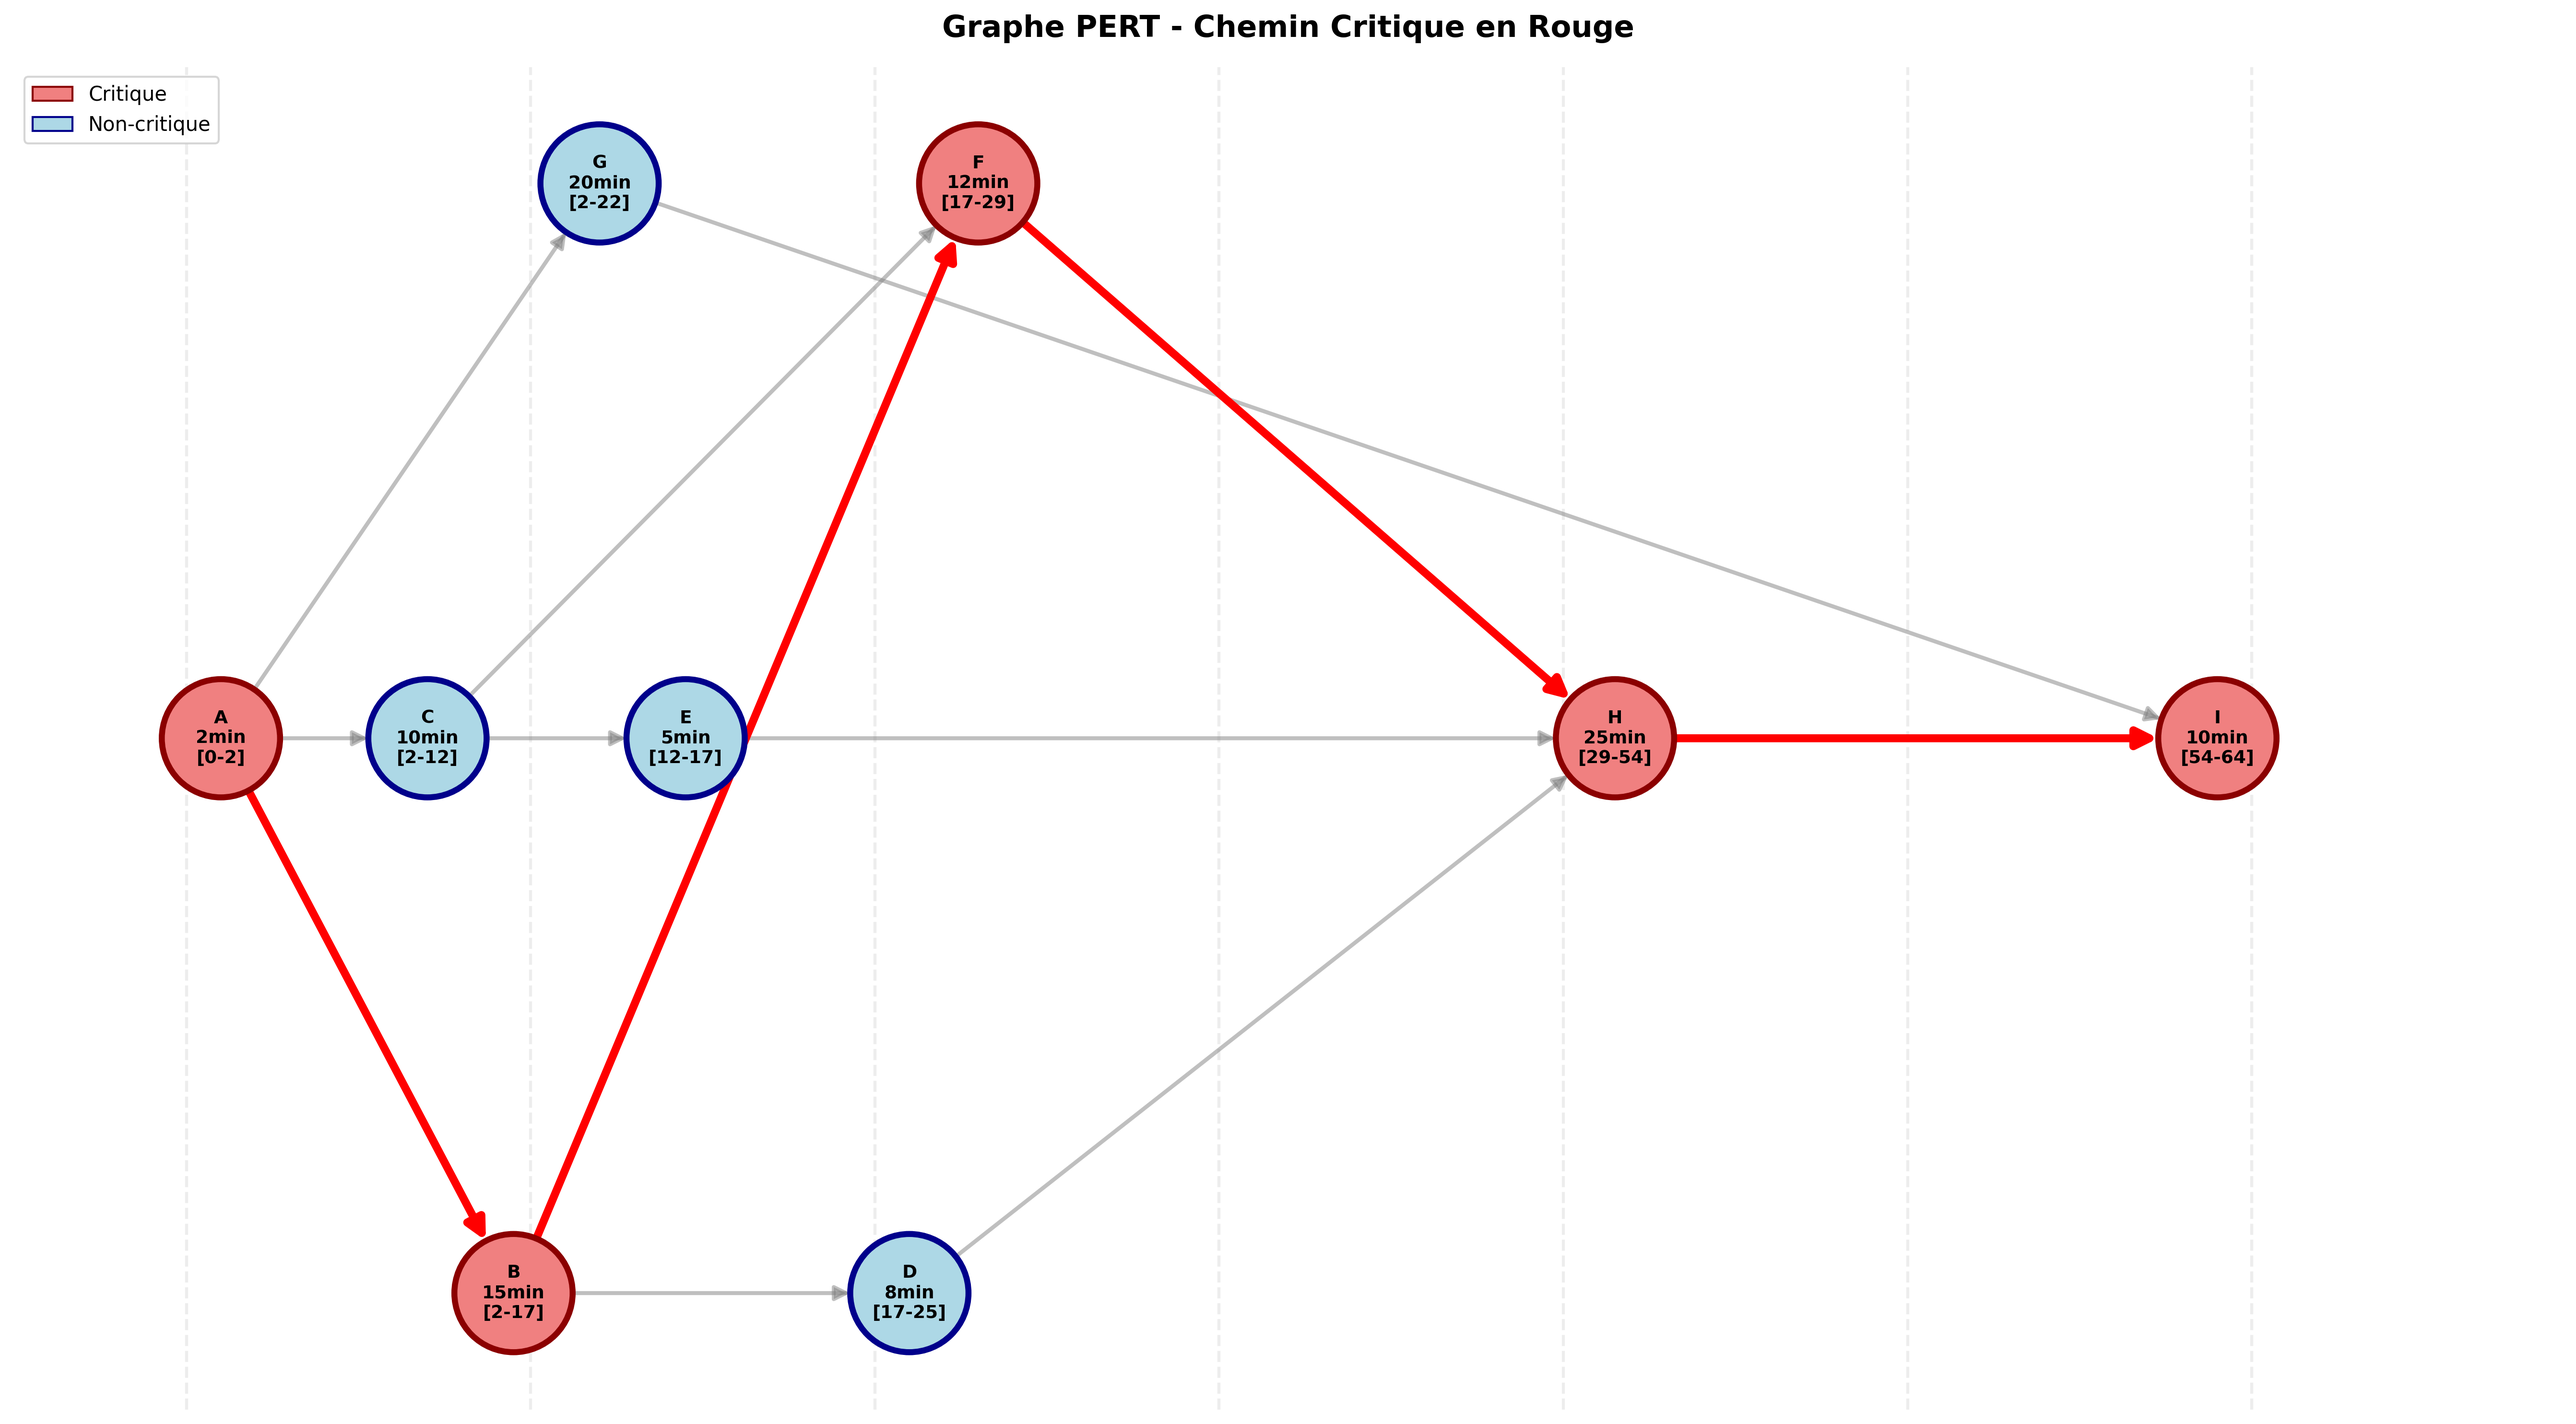
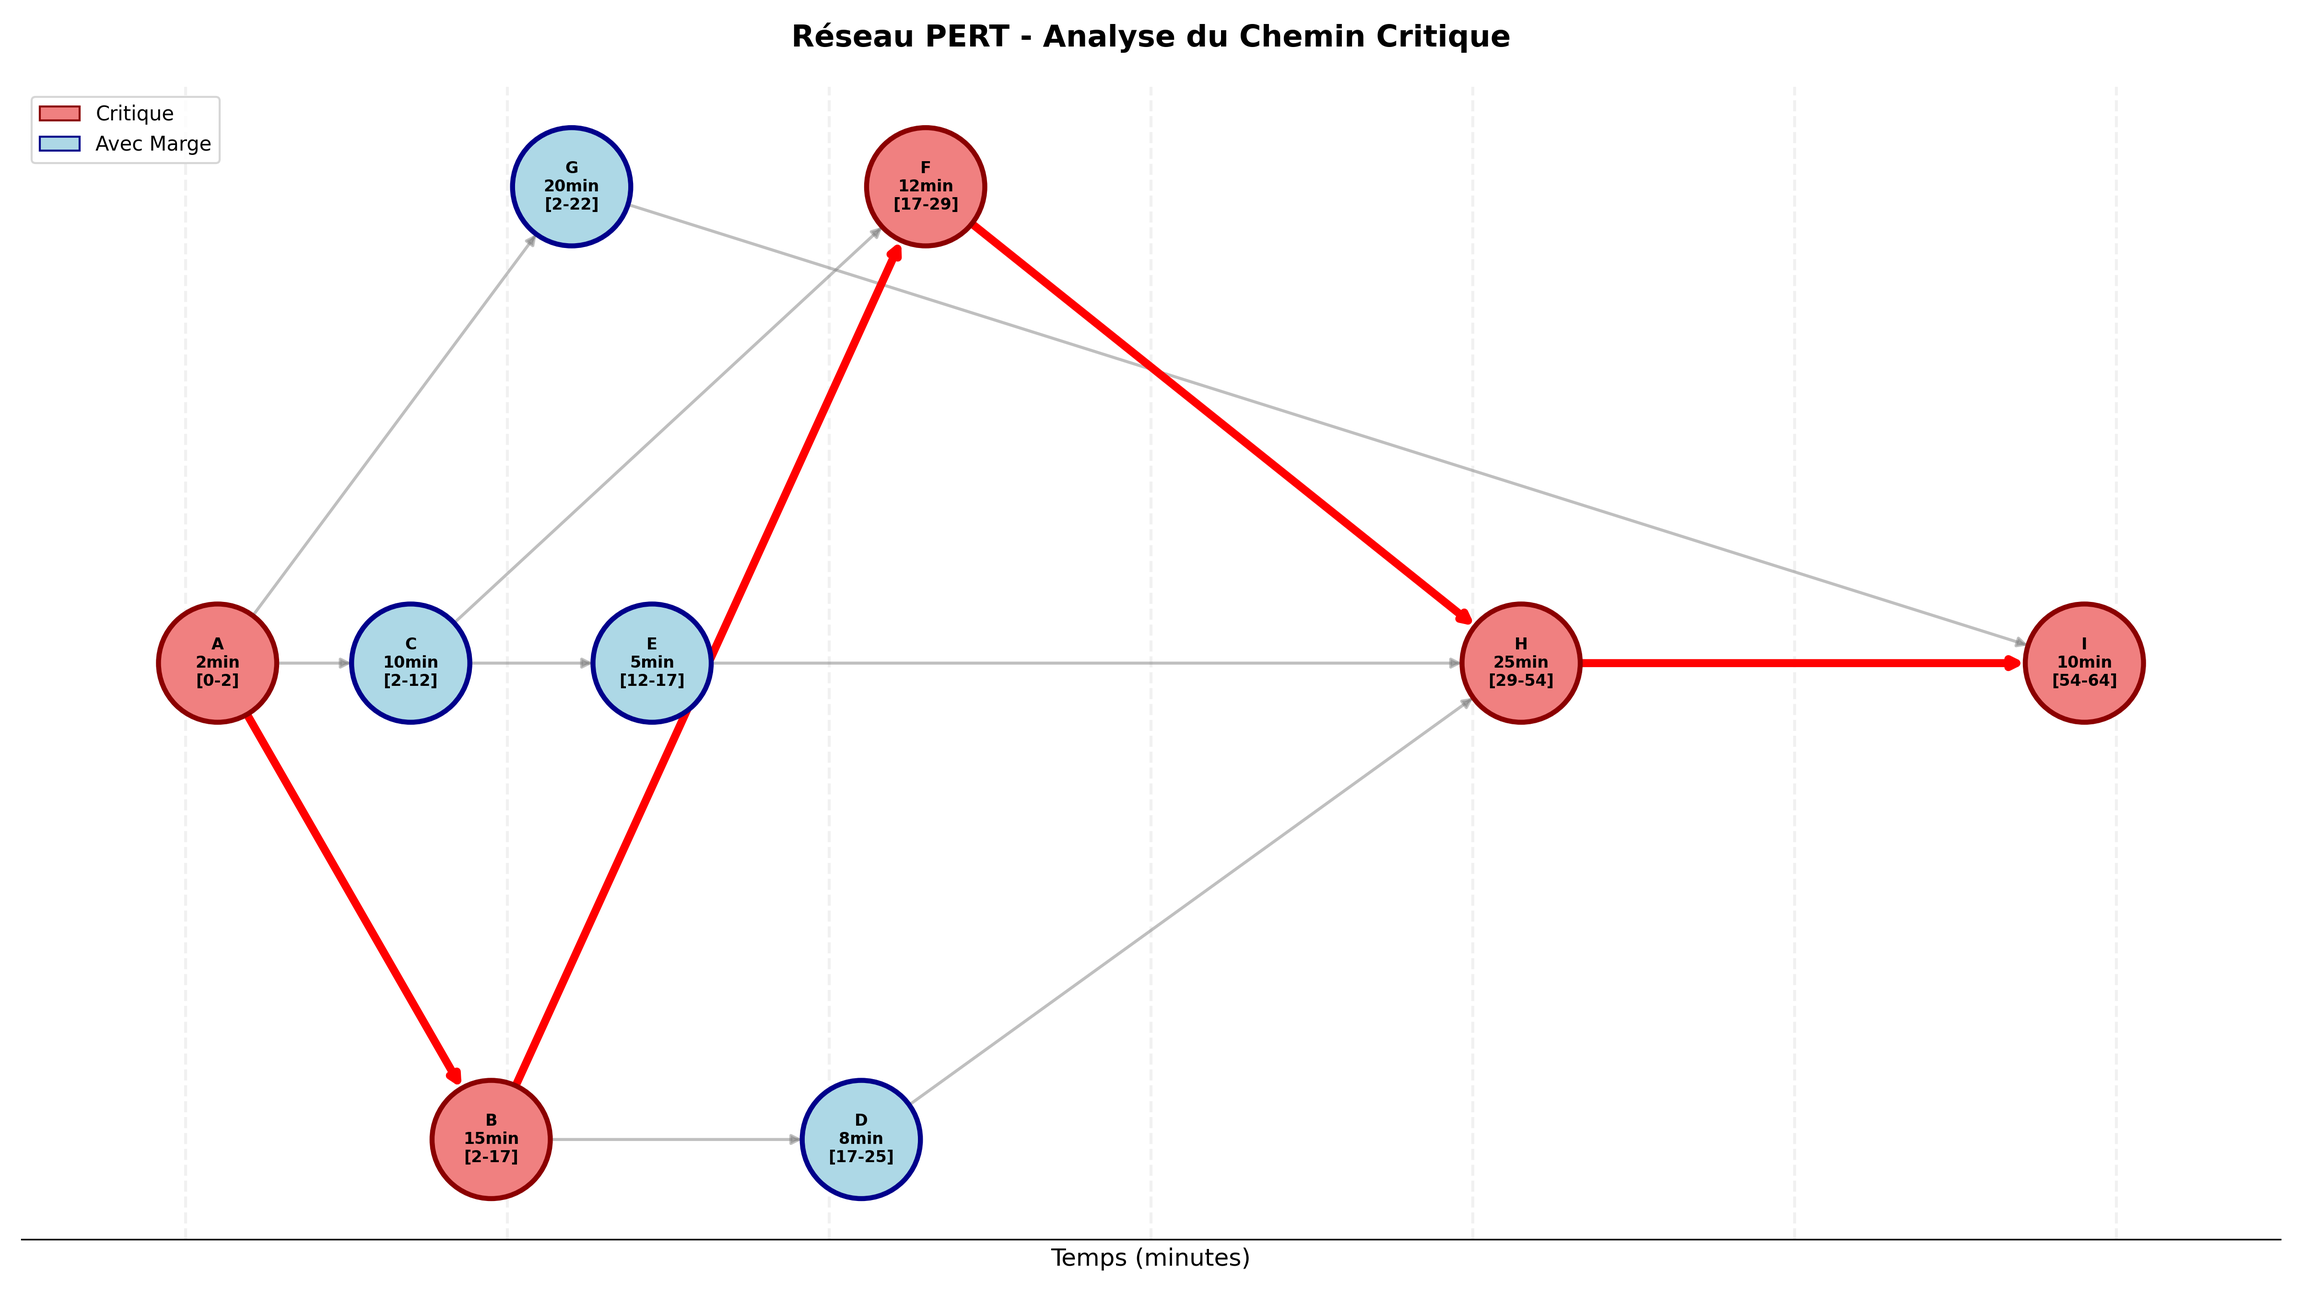
ajout de classe de visualisation

diff --git a/src/visualisation.py b/src/visualisation.py
@@ -1,0 +1,142 @@
+import matplotlib.pyplot as plt
+import networkx as nx
+from matplotlib.patches import Patch
+
+
+from graph_builder import GraphePERT
+from pert_calculator import CalculateurPERT
+
+class VisualisateurPERT:
+    def __init__(self, calculateur):
+        self.calc = calculateur
+        self.graphe = calculateur.graphe
+        self.gp = calculateur.graphe_pert
+
+    def _calculer_positions(self):
+        """Calcule les positions hierarchiques basees sur le temps"""
+        # Calculer niveaux
+        niveaux = {}
+        for node in nx.topological_sort(self.graphe):
+            preds = list(self.graphe.predecessors(node))
+            niveaux[node] = max([niveaux[p] for p in preds], default=-1) + 1
+
+        # Grouper par niveau
+        noeuds_par_niveau = {}
+        for node, niveau in niveaux.items():
+            noeuds_par_niveau.setdefault(niveau, []).append(node)
+
+        # Positionner
+        resultats = self.calc.executer_analyse_complete()
+        dates_tot = resultats["dates_tot"]
+        pos = {}
+        for niveau, noeuds in noeuds_par_niveau.items():
+            for i, node in enumerate(sorted(noeuds)):
+                x = (dates_tot[node]["ES"] + dates_tot[node]["EF"]) / 2
+                y = (i - (len(noeuds) - 1) / 2) * 2.5
+                pos[node] = (x, y)
+
+        return pos
+
+    def dessiner_pert(self, fichier_sortie="./rapport/figures/graphe_pert.png"):
+        """Génère le graphe PERT circulaire avec chemin critique et labels [ES-EF]."""
+        fig, ax = plt.subplots(figsize=(16, 9))
+        chemin = self.calc.chemin_critique
+        dates_tot = self.calc.dates_tot
+        pos = self._calculer_positions()
+
+        # Dessin des Arcs
+        arcs_critiques = [(chemin[i], chemin[i + 1]) for i in range(len(chemin) - 1)]
+        nx.draw_networkx_edges(self.graphe, pos, edgelist=[e for e in self.graphe.edges() if e not in arcs_critiques],
+                               edge_color="gray", width=1.5, alpha=0.5, ax=ax, node_size=3500)
+        nx.draw_networkx_edges(self.graphe, pos, edgelist=arcs_critiques,
+                               edge_color="red", width=4, ax=ax, node_size=3500)
+
+        # Dessin des Noeuds
+        couleurs = ["lightcoral" if n in chemin else "lightblue" for n in self.graphe.nodes()]
+        bordures = ["darkred" if n in chemin else "darkblue" for n in self.graphe.nodes()]
+        nx.draw_networkx_nodes(self.graphe, pos, node_color=couleurs, edgecolors=bordures, 
+                               linewidths=2.5, node_size=3500, ax=ax)
+
+        # Labels formatés : Nom, Durée et Intervalle [ES-EF]
+        labels = {n: f"{n}\n{self.graphe.nodes[n]['duree']}min\n[{dates_tot[n]['ES']}-{dates_tot[n]['EF']}]" 
+                  for n in self.graphe.nodes()}
+        nx.draw_networkx_labels(self.graphe, pos, labels, font_size=8, font_weight="bold", ax=ax)
+
+        # Grille temporelle
+        for t in range(0, int(self.calc.duree_totale) + 1, 10):
+            ax.axvline(x=t, color="lightgray", linestyle="--", alpha=0.3, zorder=0)
+        
+        ax.set_title("Réseau PERT - Analyse du Chemin Critique", fontsize=15, fontweight="bold", pad=20)
+        ax.set_xlabel("Temps (minutes)", fontsize=12)
+        ax.spines['top'].set_visible(False)
+        ax.spines['right'].set_visible(False)
+        ax.spines['left'].set_visible(False)
+        ax.get_yaxis().set_visible(False)
+
+        # Légende
+        legende = [Patch(facecolor="lightcoral", edgecolor="darkred", label="Critique"),
+                   Patch(facecolor="lightblue", edgecolor="darkblue", label="Avec Marge")]
+        ax.legend(handles=legende, loc="upper left")
+
+        plt.tight_layout()
+        if fichier_sortie: plt.savefig(fichier_sortie, dpi=300)
+        plt.show()
+
+    def dessiner_gantt(self, fichier_sortie="./rapport/figures/graphe_gantt.png"):
+        """Génère le diagramme de Gantt avec les marges hachurées."""
+        fig, ax = plt.subplots(figsize=(14, 8))
+        taches = list(nx.topological_sort(self.graphe))
+        taches.reverse()
+        
+        for i, code in enumerate(taches):
+            es = self.calc.dates_tot[code]['ES']
+            ef = self.calc.dates_tot[code]['EF']
+            marge = self.calc.marges[code]
+            est_critique = (marge == 0)
+
+            # Barre de la tâche
+            ax.barh(i, self.graphe.nodes[code]['duree'], left=es, 
+                    color="lightcoral" if est_critique else "lightblue", 
+                    edgecolor="darkred" if est_critique else "darkblue", linewidth=1.2)
+
+            # Barre de la marge
+            if marge > 0:
+                ax.barh(i, marge, left=ef, color='white', edgecolor='gray', hatch='///', alpha=0.4)
+                ax.text(ef + marge + 0.5, i, f"marge: {marge}m", va='center', fontsize=9, color='gray')
+
+            ax.text(es - 0.5, i, f"{code} ", va='center', ha='right', fontweight='bold')
+
+        ax.set_yticks(range(len(taches)))
+        ax.set_yticklabels([self.gp.obtenir_info_tache(t)['nom'] for t in taches])
+        ax.set_xlabel("Temps (minutes)")
+        ax.set_title(f"Diagramme de Gantt - Fin de projet : {self.calc.duree_totale} min", fontweight='bold')
+        ax.grid(axis='x', linestyle='--', alpha=0.5)
+        
+        plt.tight_layout()
+        if fichier_sortie: plt.savefig(fichier_sortie, dpi=300)
+        plt.show()
+
+if __name__ == "__main__":
+    try:
+        # Remplace "donnees_pipeline.csv" par le nom de ton fichier réel
+        gp = GraphePERT("./data/taches.csv")
+        
+        # 2. Calculs PERT 
+        calculateur = CalculateurPERT(gp)
+        calculateur.executer_analyse_complete()
+        
+        # 3. Visualisation
+        visu = VisualisateurPERT(calculateur)
+        
+        print("--- Analyse terminée ---")
+        print(f"Durée totale du projet : {calculateur.duree_totale} minutes")
+        print(f"Chemin critique : {' -> '.join(calculateur.chemin_critique)}")
+        
+        # Lancement des dessins
+        visu.dessiner_pert()
+        visu.dessiner_gantt()
+        
+    except FileNotFoundError:
+        print("Erreur : Le fichier CSV est introuvable. Vérifiez le nom du fichier.")
+    except Exception as e:
+        print(f"Une erreur est survenue : {e}")
